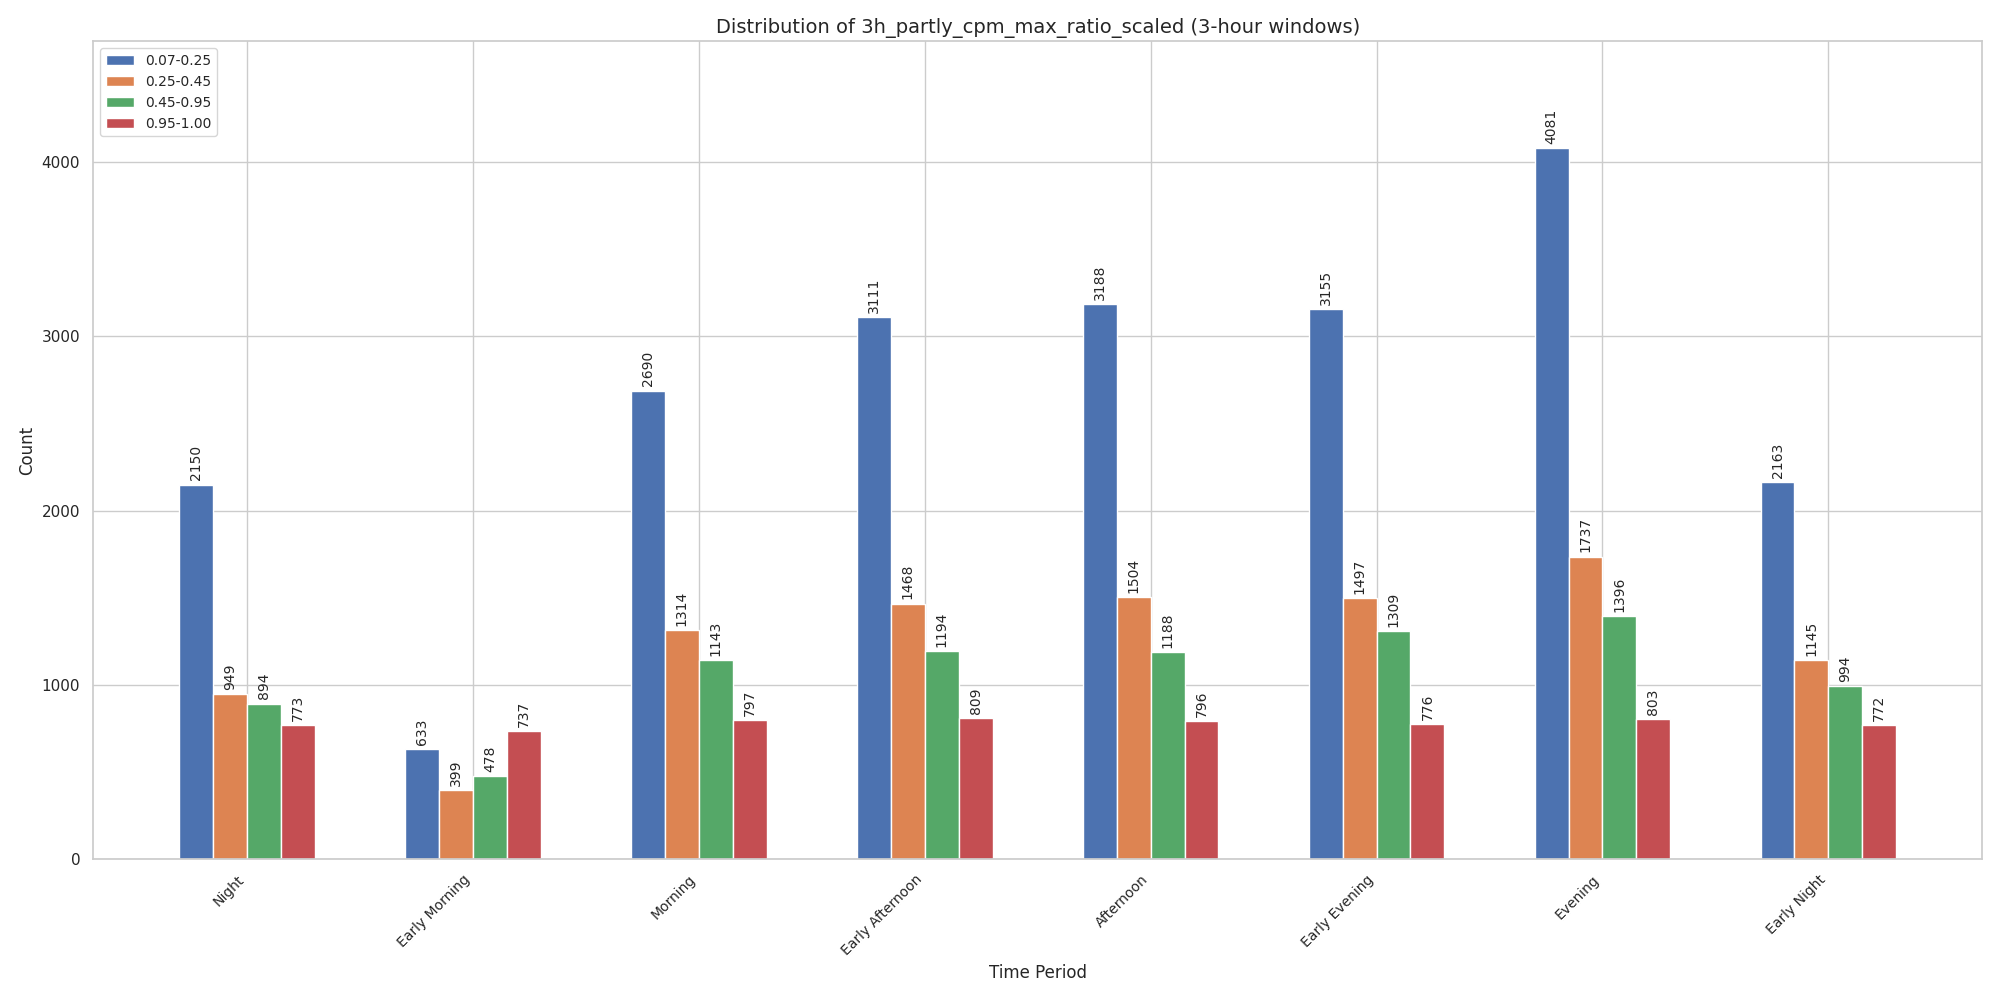
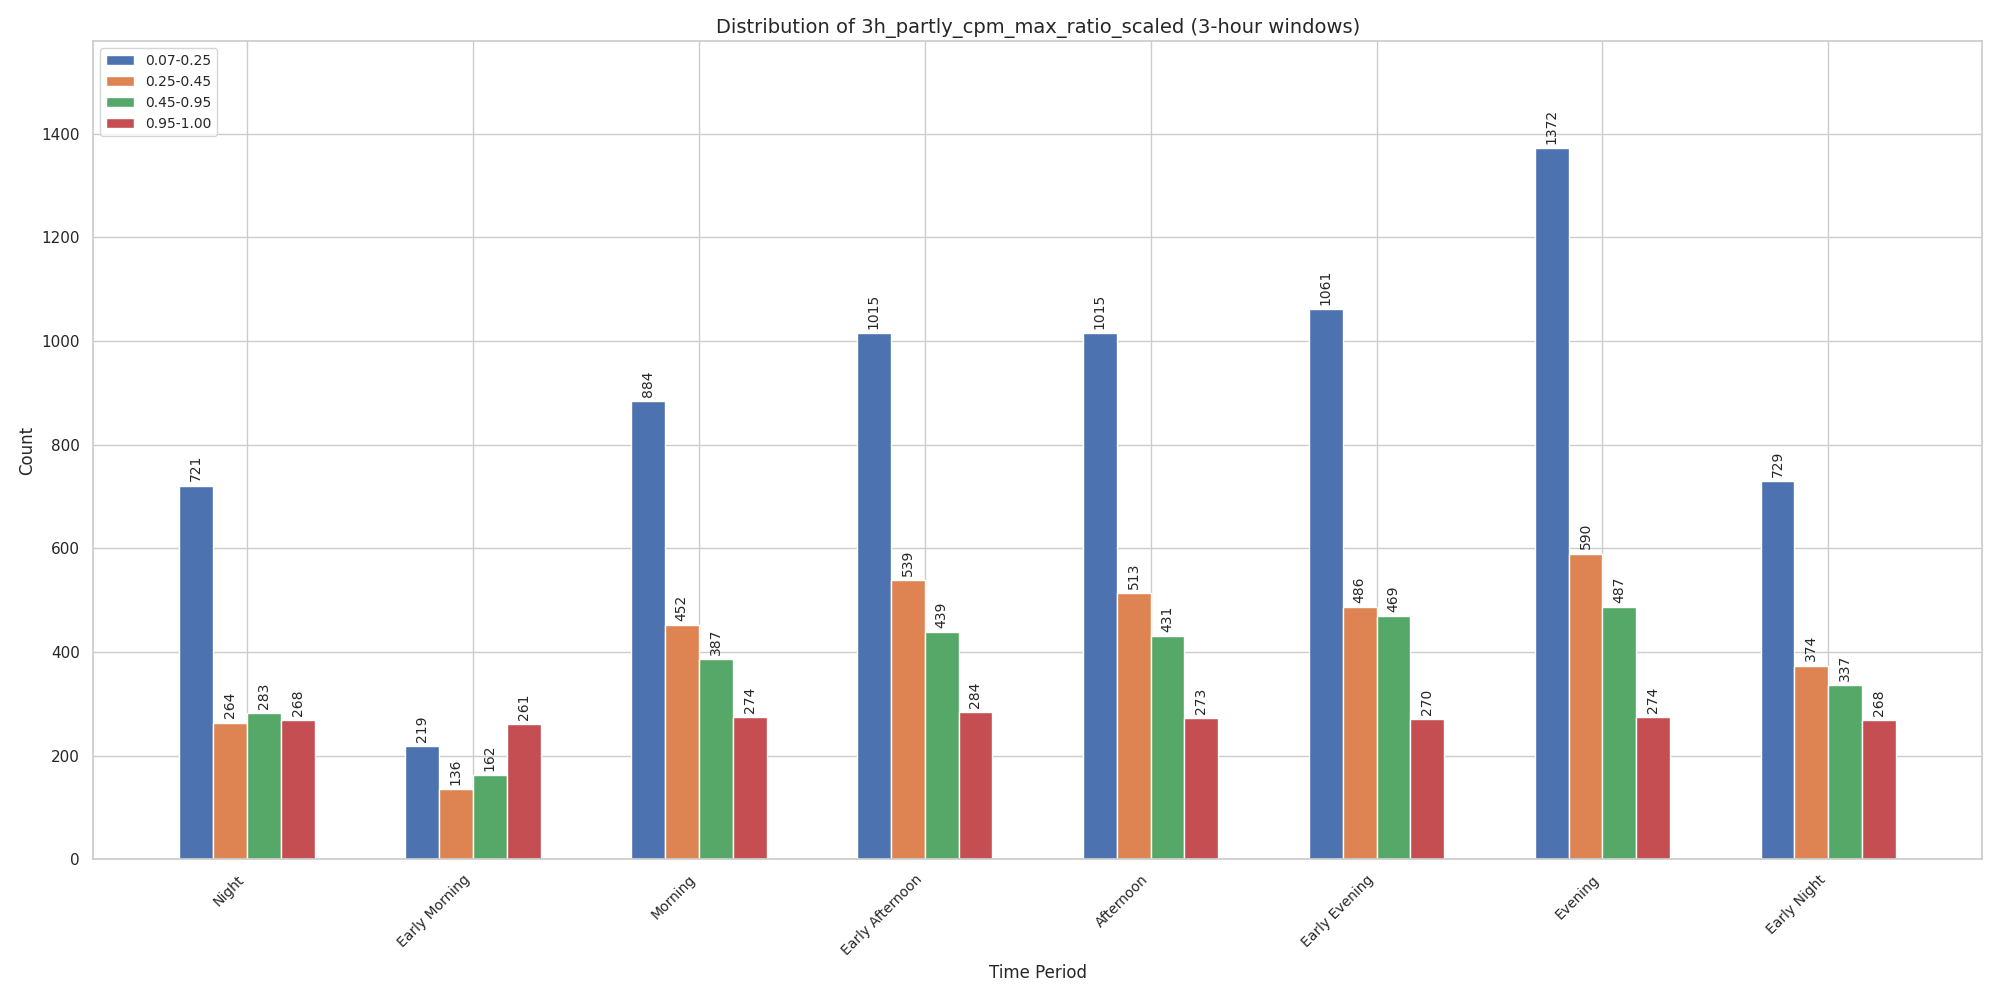
Commit 16 - Execution Methods

diff --git a/main.py b/main.py
@@ -15,18 +15,15 @@ class MainPipeline:
 
     def run(self):
         logging.info(
-            f"INITIATING {__class__.__name__} from top-level script: ``{__file__.split('/')[-1]}``...\n")
+            f"INITIATING {self.__class__.__name__} from top-level script: ``{__file__.split('/')[-1]}``...\n"
+        )
         steps = [
             (DataPipeline(state, exe).main, 'raw', 'result'),
         ]
-        for step, load_path, save_paths in steps:
-            logging.info(
-                f'INITIATING {step.__self__.__class__.__name__} with:\n'
-                f'    Input_path: {self.state.paths.get_path(load_path)}\n'
-                f'    Output_paths: {self.state.paths.get_path(save_paths)}\n')
-            self.exe.run_main_step(step, load_path, save_paths)
-            logging.info(f'{step.__self__.__class__.__name__} completed SUCCESSFULLY.\n')
-        logging.info(f'{__class__.__name__} completed SUCCESSFULLY.\n')
+        self.exe._execute_steps(steps, stage="main")
+        logging.info(
+            f'Completed {self.__class__.__name__} from top-level script: ``{__file__.split("/")[-1]}`` SUCCESSFULLY.\n'
+        )
 
 
 if __name__ == '__main__':

diff --git a/utils/execution.py b/utils/execution.py
@@ -1,5 +1,6 @@
 from __future__ import annotations
 
+import logging
 from pathlib import Path
 from typing import Callable
 from typing import List
@@ -67,3 +68,17 @@ class TaskExecutor:
             kwargs: Optional[Union[dict, None]] = None) -> pd.DataFrame:
         """Pipeline runner for child pipelines scripts (lowest level scripts)"""
         return step(df, **args) if args is not None else step(df)
+
+    def _execute_steps(self, steps, stage=None):
+        if stage == "main":
+            for step, load_path, save_paths in steps:
+                logging.info(
+                    f"INITIATING {step.__self__.__class__.__name__} with:\n"
+                    f"    Input_path: {self.paths.get_path(load_path)}\n"
+                    f"    Output_paths: {self.paths.get_path(save_paths)}\n"
+                )
+                self.run_main_step(step, load_path, save_paths)
+                logging.info(f"{step.__self__.__class__.__name__} completed SUCCESSFULLY.\n")
+        if stage == "parent":
+            for step, load_path, save_paths in steps:
+                self.run_parent_step(step, load_path, save_paths)

diff --git a/src/pipelines/data_pipeline.py b/src/pipelines/data_pipeline.py
@@ -17,12 +17,11 @@ class DataPipeline:
 
     def main(self):
         steps = [
-            (MakeDataset(), 'raw', 'sdo'),
-            (InitialProcessor(), 'sdo', 'process1'),
-            (BuildAnalysisFeatures(self.state), 'process1', 'features1'),
-            (AnalyseBounds(self.state), 'features1', None),
-            (BuildModelFeatures(), 'process1', 'features2'),
-            (DynamicPricing(self.state), 'features2', 'result'),
+            (MakeDataset().pipeline, 'raw', 'sdo'),
+            (InitialProcessor().pipeline, 'sdo', 'process1'),
+            (BuildAnalysisFeatures(self.state).pipeline, 'process1', 'features1'),
+            (AnalyseBounds(self.state).pipeline, 'features1', None),
+            (BuildModelFeatures().pipeline, 'process1', 'features2'),
+            (DynamicPricing(self.state).pipeline, 'features2', 'result'),
         ]
-        for step, load_path, save_paths in steps:
-            self.exe.run_parent_step(step.pipeline, load_path, save_paths)
+        self.exe._execute_steps(steps, stage="parent")

diff --git a/src/features/build_features.py b/src/features/build_features.py
@@ -19,6 +19,7 @@ class BuildAnalysisFeatures:
 
     def pipeline(self, df: pd.DataFrame) -> pd.DataFrame:
         steps = [
+            self.sample_data,
             self.build_dt_features,
             self.build_haversine_distance,
             self.build_price_per_mile,
@@ -32,10 +33,13 @@ class BuildAnalysisFeatures:
             self.build_lagged_features,
             self.round_and_optimize_df
         ]
-        df = df[-int((len(df)*0.3)):]
         for step in steps:
             df = TaskExecutor.run_child_step(step, df)
         return df
+
+    def sample_data(self, df: pd.DataFrame) -> pd.DataFrame:
+        """The data will become very large once features are built. So we take a sample here."""
+        return df[-int((len(df)*0.1)):]
 
     def build_dt_features(self, df):
         df['hour'] = df['timestamp'].dt.hour.astype('int32')
